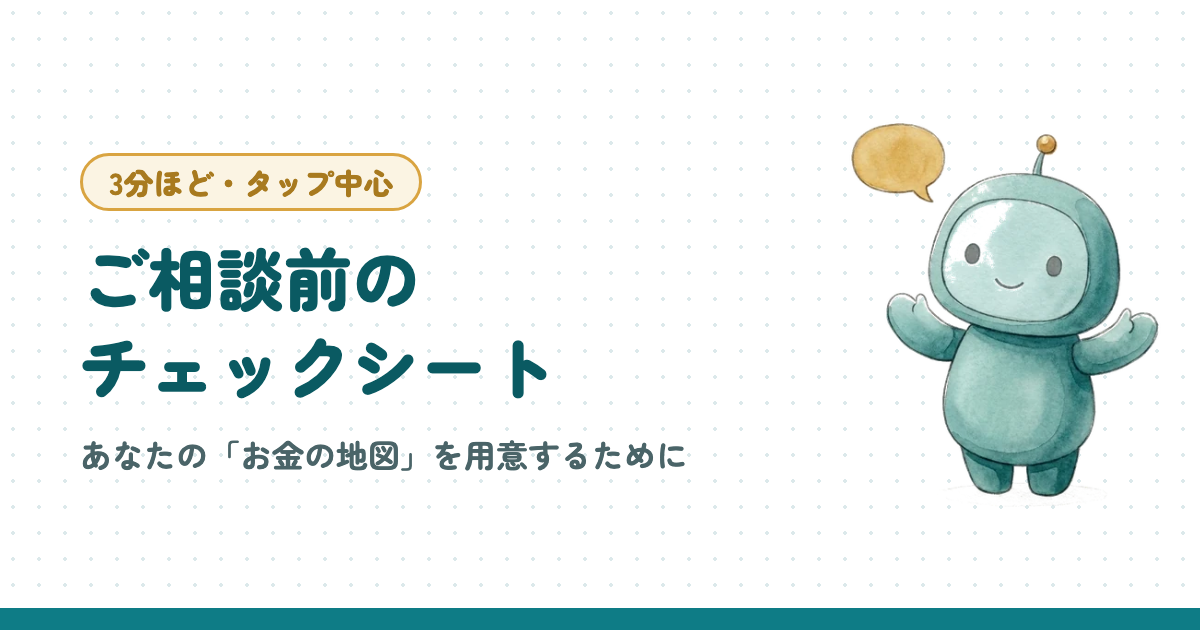
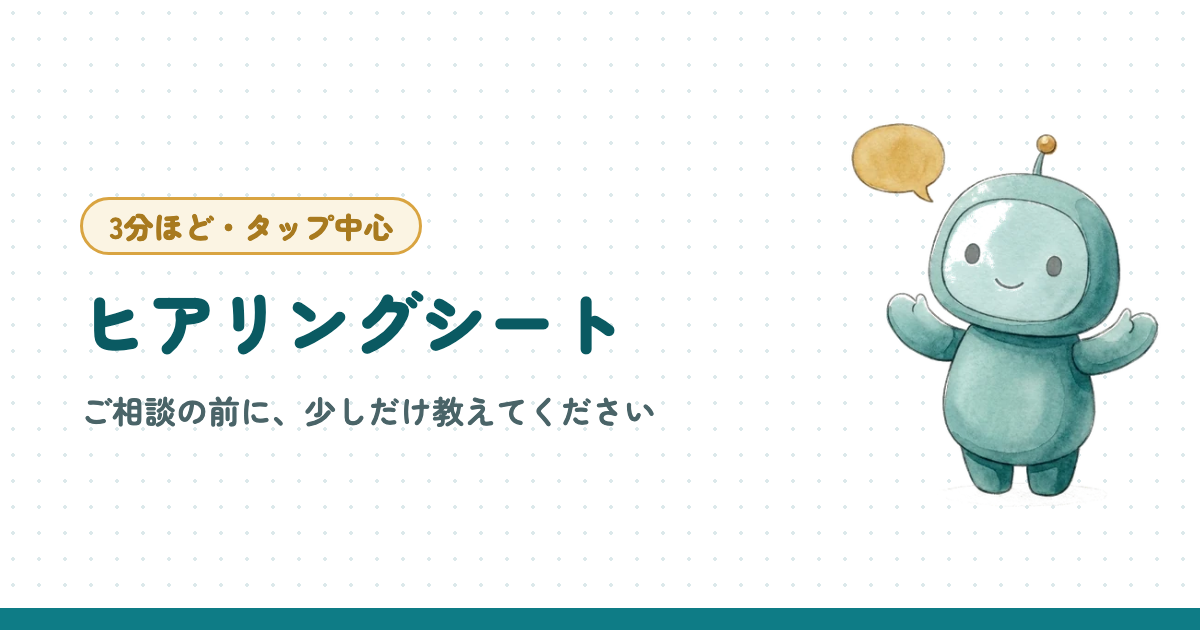
見出しをヒアリングシートに・同意文をやわらかく

Changed region(s): [[0.0617, 0.2413, 0.5858, 0.754]]

diff --git a/index.html b/index.html
@@ -3,12 +3,12 @@
 <head>
 <meta charset="utf-8">
 <meta name="viewport" content="width=device-width,initial-scale=1">
-<title>ご相談前のチェックシート｜fulfull</title>
-<meta name="description" content="ご相談の前に、あなたのことを少しだけ教えてください。いただいた内容から、ご相談の日までに「お金の地図」を用意します。3分ほどで終わります。">
+<title>ヒアリングシート｜fulfull</title>
+<meta name="description" content="ご相談の前に、少しだけ教えてください。3分ほどで終わります。">
 <meta name="robots" content="noindex,nofollow">
 <meta property="og:type" content="website">
-<meta property="og:title" content="ご相談前のチェックシート｜fulfull">
-<meta property="og:description" content="タップ中心で3分ほど。いただいた内容から、ご相談の日までにあなたの「お金の地図」を用意します。">
+<meta property="og:title" content="ヒアリングシート｜fulfull">
+<meta property="og:description" content="ご相談の前に、少しだけ教えてください。タップ中心で3分ほどです。">
 <meta property="og:image" content="https://mm738966m-boop.github.io/soudan-check/og.png">
 <meta name="twitter:card" content="summary_large_image">
 <link rel="preconnect" href="https://fonts.googleapis.com">
@@ -129,37 +129,32 @@ details[open] summary::before{content:"－ "}
 <div class="hero">
 <img src="mascot_invite.webp" alt="">
 <div class="tag">3分ほど・タップ中心</div>
-<h1>ご相談の日までに、<br>あなたの「お金の地図」を<br>用意しておきます</h1>
-<p>そのために、少しだけ教えてください。<br>当日は、できあがった地図を<br>一緒に見るところから始められます。</p>
-</div>
-<div class="gets">
-<div><b>🗺</b>いまの保険と<br>お金の全体図</div>
-<div><b>📈</b>老後までの<br>お金の見通し</div>
-<div><b>💡</b>組み直すなら<br>どこからか</div>
+<h1>ヒアリングシート</h1>
+<p>ご相談の前に、少しだけ教えてください。<br>当日のお話の準備に使います。</p>
 </div>
 
 <div class="agree" id="agreeBox">
-<h3>はじめる前に、お預かりする情報の使い方</h3>
+<h3>お預かりする情報の使い方</h3>
 <p class="lead">大事なところを3つにまとめました。</p>
-<div class="pt"><div class="ic">🔒</div><div><b>あなたのご相談のためだけに使います</b><span>お金の地図（シミュレーション）づくり、ご提案、そのためのご連絡に使います。</span></div></div>
-<div class="pt"><div class="ic">🤖</div><div><b>地図づくりにAIを使います</b><span>計算と資料づくりに、米国Anthropic社のAI「Claude」を使います。入力内容がAIの学習に使われない設定にしています。</span></div></div>
-<div class="pt"><div class="ic">🤝</div><div><b>ほかの会社には渡しません</b><span>保険のお申し込みに進むときだけ、保険会社へお伝えします。そのときは改めて確認します。</span></div></div>
+<div class="pt"><div class="ic">🔒</div><div><b>ご相談のためだけに使います</b><span>お金のシミュレーションづくり、ご提案、ご連絡に使います。</span></div></div>
+<div class="pt"><div class="ic">🤖</div><div><b>シミュレーションの計算は、AIがお手伝いします</b><span>入力内容はAIの学習には使われない設定です。<br>できあがった資料は、担当者が中身を確かめてからお渡しします。</span></div></div>
+<div class="pt"><div class="ic">🤝</div><div><b>許可なく、ほかへ渡しません</b><span>保険のお申し込みに進むときだけ、保険会社へお伝えします。<br>そのときは改めて確認します。</span></div></div>
 <details>
 <summary>くわしい内容を読む</summary>
 <div class="detail">
 <h4>運営しているのは</h4>
 <p>fulfull株式会社（保険代理店）<br>神奈川県横浜市青葉区大場町174-121　代表 森川 満章</p>
 <h4>お預かりした情報を使う目的</h4>
-<ul><li>ライフプランとお金のシミュレーション（お金の地図）の作成</li><li>保険や資産づくりのご提案</li><li>上の2つのためのご連絡</li></ul>
+<ul><li>ライフプランとお金のシミュレーションの作成</li><li>保険や資産づくりのご提案</li><li>上の2つのためのご連絡</li></ul>
 <h4>見るのは誰か</h4>
 <p>担当の森川と、当社の保険スタッフ（募集人）だけです。</p>
-<h4>AIの利用と、外国にある会社への提供について</h4>
-<p>お金の地図をつくるとき、入力内容とお送りいただいた保険証券の写真を、AIで読み取り・計算します。このAIは外国の会社のサービスのため、個人情報保護法第28条にもとづき、次のとおりお知らせします。</p>
+<h4>使っているAIについて（法律で決まっているお知らせ）</h4>
+<p>シミュレーションの計算と、保険証券の写真の読み取りには、AI「Claude」を使っています。<br>Claudeはアメリカの会社のサービスです。<br>海外のサービスを使うときは、次のことをお知らせするよう法律（個人情報保護法第28条）で決まっています。</p>
 <ul>
-<li>提供先：Anthropic, PBC（AI「Claude」の提供元）</li>
+<li>会社：Anthropic, PBC（Claudeの運営元）</li>
 <li>国：アメリカ合衆国</li>
-<li>その国の制度：国全体をまとめて定める個人情報保護の法律はなく、分野ごと・州ごとの法律で守られています。くわしくは個人情報保護委員会のページをご覧ください。<br><a href="https://www.ppc.go.jp/enforcement/infoprovision/laws/offshore_report_america/" target="_blank" rel="noopener">個人情報保護委員会「外国制度（アメリカ合衆国）」</a></li>
-<li>提供先がとっている措置：入力内容をAIの学習に使わない設定にしています。この設定では、やり取りの内容は原則30日で削除されます（安全上の確認が必要な場合を除く）。<br><a href="https://www.anthropic.com/legal/privacy" target="_blank" rel="noopener">Anthropic社のプライバシーポリシー</a></li>
+<li>アメリカの個人情報のルール：国全体をまとめて定める個人情報保護の法律はなく、分野ごと・州ごとの法律で守られています。くわしくは個人情報保護委員会のページをご覧ください。<br><a href="https://www.ppc.go.jp/enforcement/infoprovision/laws/offshore_report_america/" target="_blank" rel="noopener">個人情報保護委員会「外国制度（アメリカ合衆国）」</a></li>
+<li>守るための設定：入力内容をAIの学習に使わない設定にしています。この設定では、やり取りの内容は原則30日で削除されます（安全上の確認が必要な場合を除く）。<br><a href="https://www.anthropic.com/legal/privacy" target="_blank" rel="noopener">Anthropic社のプライバシーポリシー</a></li>
 </ul>
 <h4>保管のしかた</h4>
 <p>入力内容は、Googleのスプレッドシートなど、アクセスできる人を限ったクラウドに保管します。</p>
@@ -168,12 +163,12 @@ details[open] summary::before{content:"－ "}
 <h4>健康状態のこと</h4>
 <p>このシートでは、持病や健康診断の結果はお聞きしません。必要なときは、ご相談の場で直接おうかがいします。</p>
 <h4>入力は任意です</h4>
-<p>入力するかどうかは自由です。ただ、項目が足りないと地図が作れない場合があります。</p>
+<p>入力するかどうかは自由です。ただ、項目が足りないとシミュレーションが作れない場合があります。</p>
 <h4>お問い合わせ・開示などのご希望</h4>
 <p>fulfull0605@gmail.com<br><a href="https://fulfull.jp/privacy-policy-hoken/" target="_blank" rel="noopener">プライバシーポリシー（全文）</a></p>
 </div>
 </details>
-<label class="check"><input type="checkbox" id="agree"><span>上の内容（AIの利用と、アメリカ合衆国の会社への提供を含む）を確認し、同意します</span></label>
+<label class="check"><input type="checkbox" id="agree"><span>内容を確認し、同意します</span></label>
 </div>
 <input type="text" id="website" tabindex="-1" autocomplete="off" style="position:absolute;left:-9999px" aria-hidden="true">
 <div class="nav"><button class="btn main" type="button" id="start" disabled>同意してはじめる</button></div>
@@ -182,7 +177,7 @@ details[open] summary::before{content:"－ "}
 
 <!-- 1 あなたのこと -->
 <section class="step" data-step="1">
-<div class="head"><img src="mascot_point.webp" alt=""><div><h2>あなたのこと</h2><p>地図の年齢の計算に使います。</p></div></div>
+<div class="head"><img src="mascot_point.webp" alt=""><div><h2>あなたのこと</h2><p>年齢の計算に使います。</p></div></div>
 <div class="q" data-need="name"><div class="t">お名前<span class="req">必須</span></div><input id="name" type="text" autocomplete="name" placeholder="例）山田 花子"><div class="msg">お名前を入れてください</div></div>
 <div class="q" data-need="kana"><div class="t">フリガナ<span class="req">必須</span></div><input id="kana" type="text" placeholder="例）ヤマダ ハナコ"><div class="msg">フリガナを入れてください</div></div>
 <div class="q" data-need="birth"><div class="t">生年月日<span class="req">必須</span></div>
@@ -194,7 +189,7 @@ details[open] summary::before{content:"－ "}
 
 <!-- 2 ご連絡先 -->
 <section class="step" data-step="2">
-<div class="head"><img src="mascot_invite.webp" alt=""><div><h2>ご連絡先</h2><p>地図ができたら、こちらにご連絡します。</p></div></div>
+<div class="head"><img src="mascot_invite.webp" alt=""><div><h2>ご連絡先</h2><p>資料ができたら、こちらにご連絡します。</p></div></div>
 <div class="q" data-need="email"><div class="t">メールアドレス<span class="req">必須</span></div><input id="email" type="email" autocomplete="email" inputmode="email" placeholder="例）hanako@example.com"><div class="msg">メールアドレスの形を確かめてください</div></div>
 <div class="q" data-need="tel"><div class="t">電話番号<span class="req">必須</span></div><div class="hint">ハイフンはなくても大丈夫です</div><input id="tel" type="tel" autocomplete="tel" inputmode="tel" placeholder="例）09012345678"><div class="msg">電話番号を確かめてください</div></div>
 <div class="q" data-need="zip"><div class="t">郵便番号<span class="req">必須</span></div><div class="hint">7けたで住所が自動で入ります</div><div class="zip"><input id="zip" type="text" inputmode="numeric" autocomplete="postal-code" placeholder="例）2270034" maxlength="8"><button type="button" id="zipbtn">住所を入れる</button></div><div class="msg">郵便番号は7けたです</div></div>
@@ -240,7 +235,7 @@ details[open] summary::before{content:"－ "}
 <div class="ok" id="copied" style="display:none">コピーしました。<br>LINEを開いて貼り付け、送信を押すと届きます。</div>
 <textarea id="text" readonly style="margin-top:12px;min-height:120px;font-size:16px"></textarea>
 </div>
-<p style="margin-top:14px">ご相談の日までに、地図づくりを進めます。<br>次の2つがあると、地図がもっと正確になります。</p>
+<p style="margin-top:14px">当日までに、お話の準備をしておきます。<br>次の2つがあると、より具体的なお話ができます。</p>
 <div class="next">
 <div class="n"><i>1</i><div><b>保険証券の写真をLINEで</b><span>表と裏、1本ずつ。会社がバラバラでも大丈夫です。</span></div></div>
 <div class="n"><i>2</i><div><b>家計の数字をざっくり</b><span>分からない欄は「あとで」で大丈夫。5分ほどです。</span></div></div>
@@ -252,7 +247,7 @@ details[open] summary::before{content:"－ "}
 <script>
 const $=id=>document.getElementById(id);
 const API='';
-const VER='2026-10-21版';
+const VER='2026-10-21版b';
 const labels=['はじめに','あなたのこと','ご連絡先','お仕事とご家族','いまの保険','確認','受け付けました'];
 const sel={};
 function go(n){document.querySelectorAll('.step').forEach(s=>s.classList.toggle('on',+s.dataset.step===n));const shown=Math.min(n,5);document.querySelectorAll('#prog span').forEach((b,i)=>{b.className=n===6||i<shown?'done':i===shown?'on':''});$('sl').textContent=labels[n];$('sn').textContent=n===6?'完了':(shown+1)+' / 6';window.scrollTo({top:0,behavior:'smooth'})}
